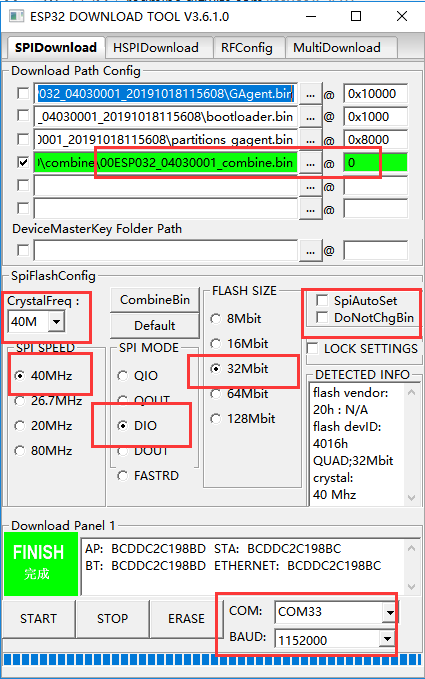
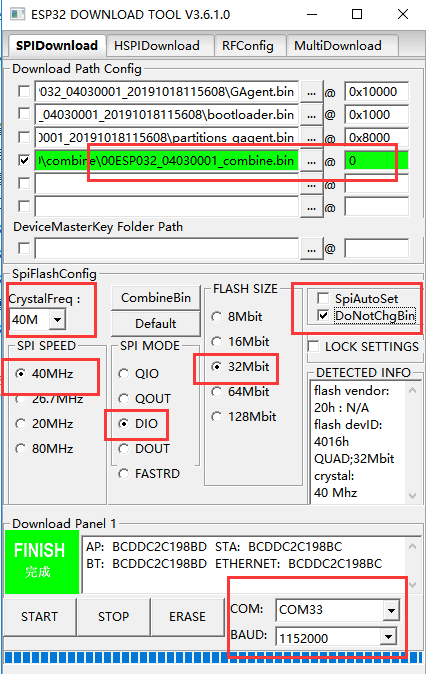
修改ESP32文档

Changed region(s): [[0.0, 0.0, 1.0, 1.0], [0.9482, 0.7166, 0.9788, 0.7478], [0.7647, 0.3427, 0.7953, 0.3739]]

diff --git a/source/zh-cn/deviceDev/debug/ESP32-WROOM-32D接入机智云方案及问题排查指引.md b/source/zh-cn/deviceDev/debug/ESP32-WROOM-32D接入机智云方案及问题排查指引.md
@@ -3,34 +3,36 @@ title: ESP32-WROOM-32D接入机智云方案及问题排查指引
 
 # 修订历史
 
-| 版本        | 修订内容    |  修订人  | 修订日期|
-| :------:   | :-----:   | :----: |:----:|
-| V1.0        |起稿      |   Bobo    |2019/10/29|
-
+| 版本 | 修订内容 | 修订人 |  修订日期  |
+| :--: | :------: | :----: | :--------: |
+| V1.0 |   起稿   |  Bobo  | 2019/10/29 |
 
 # 1.本文编写背景
+
 本文主要介绍乐鑫ESP32-WROOM-32D（以下简略ESP32）快速从零开始接入机智云，实现简单的透传功能，以及常见的配网失败问题排查，还提供了该模组的相关资料。
 
 # 2. ESP32模组资料下载及获取
+
 链接：https://eyun.baidu.com/s/3eTgCeVw 密码：CcKm
 
 # 3. ESP32外围设计原理图
 
 请下载第2章内容，下载模组规格说明书与模组参考设计，使用说明书内推荐的外围设计原理图。
 
-![AI_ESP32_1](/assets/zh-cn/deviceDev/ESP32//ESP32_1.png)
+![AI_ESP32_1](/assets/zh-cn/deviceDev/ESP32/ESP32_1.png)
 
 # 4. ESP32串口烧写固件说明
 
 ## 4.1、ESP32固件获取与确认
+
 当拿到一片ESP32模块的时候，若确认固件未烧写，请联系商务同事或FAE同事获取。拿到之后解压固件压缩包。
 
 解压之后会发现有三个文件，“bootloader.bin”为底层文件，其他为GAgent应用层文件。
 
 ![AI_ESP32_1](/assets/zh-cn/deviceDev/ESP32/ESP32_2.png)
 
-
 ## 4.2、ESP32硬件设备连接
+
 查看ESP32模块的规格说明书，按照说明书内的管脚图与管脚定义，注意EN使能脚需要输入高电平，GPIO0在下载固件的时候需要输入低电平。
 
 | 管脚名称 |                     管脚描述                     |        管脚状态        |
@@ -48,29 +50,32 @@ title: ESP32-WROOM-32D接入机智云方案及问题排查指引
 
 ## 4.3、ESP32烧写说明
 
-准备好串口工具之后，解压章节2下载的压缩包，解压烧录工具文件夹中的压缩包，双击ESPFlashDownloadTool_v3.6.1.0.exe文件，选择ESP32 DownloadTool，按照下图的选项，填写对应的地址，选择对应的SPI Flash选项，选择好串口与波特率，点击START。
+**ESP32烧写有两种烧写方式，第一种是使用应用层+底层固件分开烧写，第二种是直接烧写合并固件。**
+
+准备好串口工具之后，解压章节2下载的压缩包，解压烧录工具文件夹中的压缩包，双击ESPFlashDownloadTool_v3.6.1.0.exe文件，选择ESP32 DownloadTool。
+
+- **分开固件烧写：按照下图的选项，选中对应的bin文件，填写对应的地址，选择对应的SPI Flash选项，选择好串口与波特率，点击START**。
 
 ![确认串口参数](/assets/zh-cn/deviceDev/ESP32/ESP32_5.png)
 
+- **合并固件烧写：若固件名称带有combine字眼，则从0地址烧写，不需要烧写其他三个文件，并且勾选DoNotChgBin选项，详细看下图**
 
+![确认串口参数](/assets/zh-cn/deviceDev/ESP32/ESP32_10.png)
 
 点击开始后，进度条开始运行，等待一段时间，显示完成便是成功。
 
-![确认串口参数](/assets/zh-cn/deviceDev/ESP32/ESP32_6.png)
-
->  **若固件名称带有combine字眼，则从0地址烧写，详细看下图。**
-
-![确认串口参数](/assets/zh-cn/deviceDev/ESP32/ESP32_10.png)
+![确认串口参数](/assets/zh-cn/deviceDev/ESP32./ESP32_6.png)
 
 # 5、ESP32模组日志抓取
 
 ## 5.1、ESP32模组日志接线方法
+
 按照下图ESP32的管脚定义图，将图中所示的TXD0引脚（芯片调试日志信息输出口与模组烧录口）连接USB转TTL工具的RXD上，且USB转TTL工具的GND需接模组的GND，然后将USB转TTL工具连接到电脑，波特率115200bps。
 
 ![确认串口参数](/assets/zh-cn/deviceDev/ESP32/ESP32_7.png)
 
-
 ## 5.2、机智云串口打印软件工具的获取与使用
+
 1、机智云串口打印软件工具下载链接：https://eyun.baidu.com/s/3oAbSruq 密码：pPsL
 
 2、由于模组串口日志打印为加密，需要使用对应版本号的.mapTab文件解码，对应的解码文件可以从本文第2章节ESP32模组资料中获取，工具下载解压之后，通过左下角的"导入映射表"导入对应版本的映射表文件。
@@ -85,9 +90,9 @@ title: ESP32-WROOM-32D接入机智云方案及问题排查指引
 
 快速接入文档参考链接：http://docs.gizwits.com/zh-cn/deviceDev/debug/WIF_Project.html
 
->备注：模组的IO4(RXD)与IO5(TXD)为与Gokit通讯的通讯串口，通讯波特率为9600bps，具体可参考文章5.1的模组接线方法图
-
+> 备注：模组的IO4(RXD)与IO5(TXD)为与Gokit通讯的通讯串口，通讯波特率为9600bps，具体可参考文章5.1的模组接线方法图
 
 # 7.FAQ
+
 1. Q: 如何排查AirLink配网失败问题？
-    A: 参考链接：http://docs.gizwits.com/zh-cn/deviceDev/Onboarding.html
+   A: 参考链接：http://docs.gizwits.com/zh-cn/deviceDev/Onboarding.html
